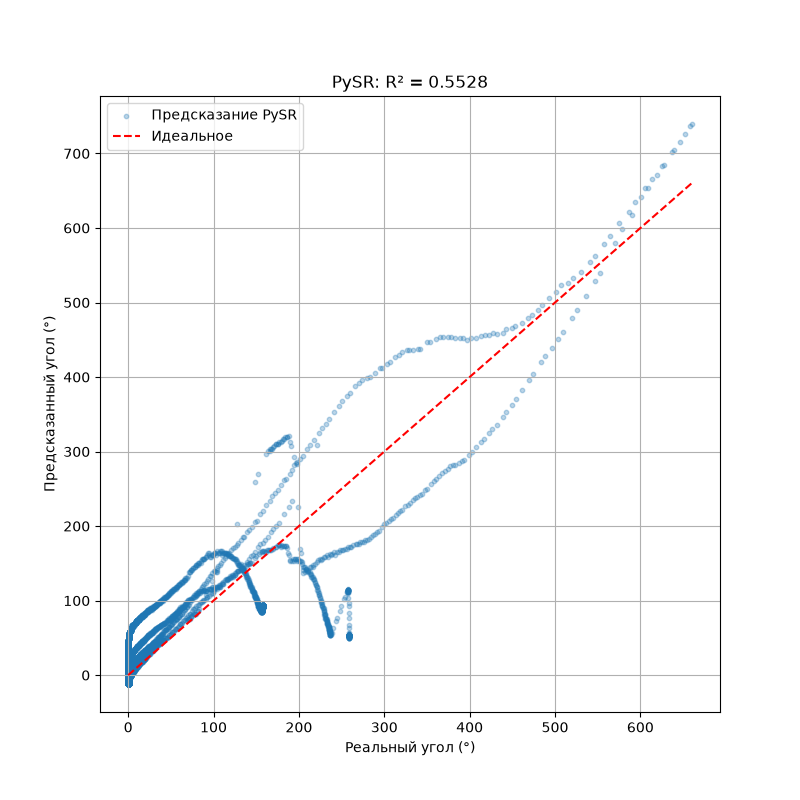
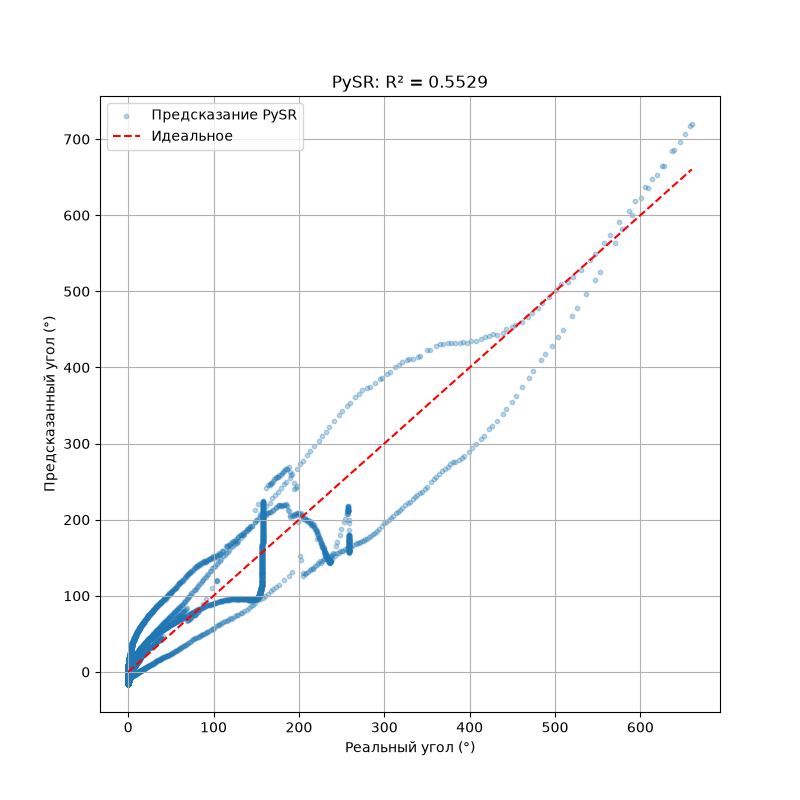
код с ошибкойвыбора лучшей формулы

diff --git a/find_formula.py b/find_formula.py
@@ -36,20 +36,33 @@ from pysr import PySRRegressor
 
 print("\n🔍 PySR начинает поиск формулы... (это может занять 5-15 минут)")
 
+
+
 model = PySRRegressor(
-    niterations=40,           # количество итераций эволюции
-    populations=15,           # размер популяции
+    niterations=200,                    # ← было 40, стало 200
+    populations=30,                     # ← было 15
+    population_size=50,
+    
     binary_operators=["+", "-", "*", "/"],
-    unary_operators=["exp", "log", "sqrt", "sin", "cos"],
-    maxsize=20,               # максимальный размер формулы
-    model_selection="best",   # выбираем лучшую
+    unary_operators=["exp", "log", "sqrt"],   # ← убрал sin, cos
+    
+    maxsize=25,                         # ← было 20
+    
+    # --- НОВОЕ: настройки для лучшего поиска ---
+    parsimony=0.001,                    # ← штраф за сложность
+    constraints={"sqrt": 5, "log": 5, "exp": 5},  # ← ограничения
+    
+    model_selection="best",
     progress=True,
     verbosity=1,
     temp_equation_file=True,
+    random_state=42,
+    
+    # Ускорение
+    procs=0,                            # ← все ядра CPU
 )
 
 model.fit(X, y)
-
 # ============================================================
 # 4. ВЫВОД РЕЗУЛЬТАТОВ
 # ============================================================
